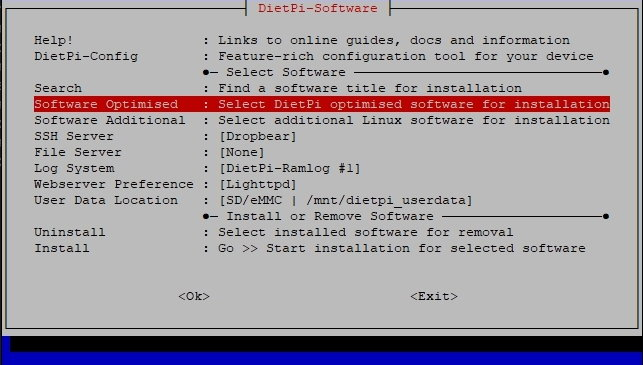
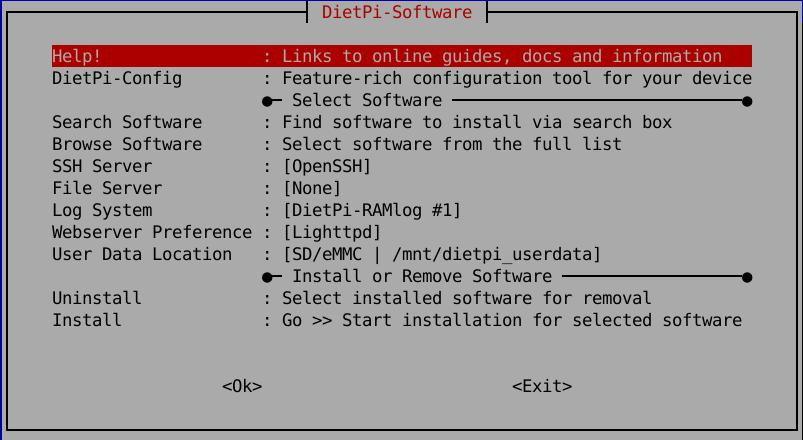
Change description of "Browse Software" resp. "Search Software" in dietpi-software

diff --git a/docs/dietpi_tools.md b/docs/dietpi_tools.md
@@ -24,11 +24,11 @@ It is one of the core tools, enabling you to install or uninstall one or more [*
 
 ### Software overview
 
-=== "Software Optimised"
+=== "Browse Software"
 
-    - Begin by selecting **Software Optimized** in the main menu list and hit ++enter++.
+    - Begin by selecting **Browse Software** in the main menu list and hit ++enter++.
 
-    - Scroll through the list of available software - for more details check [DietPi Optimised Software](../software/).
+    - Scroll through the list of available software - for more details check [DietPi Optimised Software items](../software/).
 
     The list of optimised software is long. You either browse the list or use the option **Search**.
 
@@ -42,18 +42,9 @@ It is one of the core tools, enabling you to install or uninstall one or more [*
 
     ![DietPi-Software Software Optimised menu screenshot](assets/images/dietpi-software-optimised.jpg){: width="643" height="365" loading="lazy"}
 
-=== "Software Additional"
+=== "Search Software"
 
-    This section provides:
-
-    - software packages that are often used and installed via `apt install <package>`, without additional optimisation from DietPi team.
-    - _or_ packages not directly required, but pulled as a dependency, like: build tools, libraries or runtime systems. E.g. packages like *Python3*, *pip*, *tcpdump* or *midnight commander* can be installed using the dialog.
-
-    ![DietPi-Software Software Additional menu screenshot](assets/images/dietpi-software-additional.jpg){: width="640" height="485" loading="lazy"}
-
-=== "Search"
-
-    DietPi supports a large number of software titles. Instead of scrolling through the **Software Optimised** list to find a specific software title, you may use the **Search** option. Type in the software ID or any keyword form its title or description and you'll get a list filtered by matching results.
+    DietPi supports a large number of software titles. Instead of scrolling through the **Browse Software** list to find a specific software title, you may use the **Search Software** option. Type in the software ID or any keyword form its title or description and you'll get a list filtered by matching results.
 
     ![DietPi-Software Search menu screenshot](assets/images/dietpi-software-search.png){: with="752" height="321" loading="lazy"}
 
@@ -139,7 +130,7 @@ It is one of the core tools, enabling you to install or uninstall one or more [*
 
 === "Install"
 
-    Install software item(s) which have been selected via **Optimised Software** or **Additional Software** lists, or via **SSH Server**, **File Server** or **Log System** choices.
+    Install software item(s) which have been selected via **Browse Software** list, via **Search Software**, or via **SSH Server**, **File Server** or **Log System** choices.
 
 === "Uninstall"
 

diff --git a/docs/getting_started.md b/docs/getting_started.md
@@ -2,7 +2,7 @@
 
 ## Overview
 
-Once you did the [DietPi Installation](../install/) you could choose to install one or more [Optimised software](../software/) items or run one of the [DietPi tools](../dietpi_tools/).
+Once you did the [DietPi Installation](../install/) you could choose to install one or more [DietPi optimized software items](../software/) or run one of the [DietPi tools](../dietpi_tools/).
 
 ## Initial start
 
@@ -12,17 +12,17 @@ This will be the first screen displayed.
 
 ## DietPi-Launcher
 
-Once you run `dietpi-launcher` you could see all available DietPi tools. It provides a quick way to run any the DietPi tools: from installing **DietPi Optimised software** to simple configure your device, from enabling services to start to backup your installation and so on.
+Once you run `dietpi-launcher` you could see all available DietPi tools. It provides a quick way to run any of the DietPi tools: Installing **DietPi optimized software items** to simple configure your device, enabling services to start to backup your installation and so on.
 
 ![DietPi-Launcher screenshot](assets/images/dietpi-launcher.jpg){: width="642" height="366" loading="lazy"}
 
 ## DietPi-Software -- Choose the software you need
 
-The base installation of DietPi is minimal **by design**, allowing you to choose what software you want to install and use. If you’re unsure what software to install, checkout [DietPi Optimised Software](../software/) page for more details.  
+The base installation of DietPi is minimal **by design**, allowing you to choose what software you want to install and use. If you’re unsure what software to install, checkout [DietPi optimised software items](../software/) page for more details.  
 
-The list of optimised software includes:
+The list of DietPi optimised software includes:
 
-- desktop environments
+- Desktop environments
 - Remote Desktops
 - Media Systems/Players
 - Torrents/Downloading (Transmission)
@@ -40,7 +40,7 @@ The list of optimised software includes:
 
 To install and configure them use `dietpi-software` tool - [click for more details](../dietpi_tools/#dietpi-software).
 
-![DietPi-Software screenshot](assets/images/dietpi-software.jpg){: width="643" height="365" loading="lazy"}
+![DietPi-Software screenshot](assets/images/dietpi-software.jpg){: width="640" height="351" loading="lazy"}
 
 ## Supported SBC
 

diff --git a/docs/software/remote_desktop.md b/docs/software/remote_desktop.md
@@ -16,22 +16,23 @@ Run a **Desktop environment** on your device and access it accessed remotely via
 - [**Remot3.it - (Weaved) Access your device over the internet**](#remot3it)
 - [**VirtualHere - Share physically attached USB devices from your SBC over the network**](#virtualhere)
 
-??? info "How do I run **DietPi-Software** and install **optimised software**?"
-    To install any of the **DietPi optimised software** listed below run from the command line:
+??? info "How do I run **DietPi-Software** and install **optimised software** items?"
+    To install any of the **DietPi optimised software items** listed below run from the command line:
 
     ```sh
     dietpi-software
     ```
 
-    Choose **Software Optimised** and select one or more items. Finally click on `Install`. DietPi will do all the necessary steps to install and start these software items.
+    Choose **Browse Software** and select one or more items. Finally select `Install`.  
+    DietPi will do all the necessary steps to install and start these software items.
 
-    ![DietPi-Software menu screenshot](../assets/images/dietpi-software.jpg){: width="643" height="365" loading="lazy"}
+    ![DietPi software](../assets/images/dietpi-software.jpg){: width="643" height="365" loading="lazy"}
 
     To see all the DietPi configurations options, review [DietPi Tools](../../dietpi_tools/) section.
 
 !!! info Desktop environment
 
-    From the list of **Optimised Software**, together with any of the Remote Desktop Software choose also one of [_Graphical Desktop environment_](../desktop). DietPi will install both of them, enabling you to use your keyboard and mouse to interact with a graphical desktop environment on your device.
+    From the list of **Browse Software**, together with any of the Remote Desktop Software choose also one of [_Graphical Desktop environment_](../desktop). DietPi will install both of them, enabling you to use your keyboard and mouse to interact with a graphical desktop environment on your device.
 
 [Return to the **Optimised Software list**](../../software/)
 

diff --git a/docs/software.md b/docs/software.md
@@ -2,12 +2,13 @@
 
 ## Overview
 
-**DietPi-Software** is a core DietPi tool, allowing you to install **Ready to run** and **Optimized software** for your device. It automates the installation and configuration process for you and also applies specific optimizations unique to your hardware model. As a result DietPi-Software ensure you get the **maximum performance** from your device.
+**DietPi-Software** is a core DietPi tool, allowing you to install **Ready to run** and **Optimized software items** for your device. It automates the installation and configuration process for you and also applies specific optimizations unique to your hardware model. As a result DietPi-Software ensure you get the **maximum performance** from your device.
 
-??? info "How do I run **DietPi-Software** and install **Optimised software** ?"
-    To install any of the **DietPi Optimised Software** listed below run from the command line `dietpi-launcher` and selected *DietPi-Software* or launch the tool `dietpi-software`.
+??? info "How do I run **DietPi-Software** and install **Optimised software** items?"
+    To install any of the **DietPi optimised software items** listed below run from the command line `dietpi-launcher` and selected *DietPi-Software* or launch the tool `dietpi-software`.
 
-    Choose **Software optimised** and select one or more items. Finally click on `Install`. DietPi will do all the necessary steps to install and start these software items.
+    Choose **Browse Software** and select one or more items. Finally select `Install`.  
+    DietPi will do all the necessary steps to install and start these software items.
 
     ![DietPi Software](assets/images/dietpi-software.jpg)
 

diff --git a/docs/software/log_system.md b/docs/software/log_system.md
@@ -11,16 +11,19 @@ The *Log System* can be changed at any time by running `dietpi-software` and sel
 
 ![DietPi log system selection](../assets/images/dietpi-software-log-system.png){: width="256" height="128" loading="lazy"}
 
-??? info "How do I set the **Log System**?"
-    To select the **Log System** listed below run from the command line:
+??? info "How do I run **DietPi-Software** and install **optimised software** items?"
+    To install any of the **DietPi optimised software items** listed below run from the command line:
 
     ```sh
     dietpi-software
     ```
 
-    Choose **Log System** and select the desired item. Finally click on `Install`. DietPi will do all the necessary steps to change to the desired log system.
+    Choose **Browse Software** and select one or more items. Finally select `Install`.  
+    DietPi will do all the necessary steps to install and start these software items.
 
-    ![DietPi-Software Log System menu screenshot](../assets/images/dietpi-software-log-system-selection.jpg){: width="500" height="336" loading="lazy"}
+    ![DietPi software](../assets/images/dietpi-software.jpg){: width="643" height="365" loading="lazy"}
+
+    To see all the DietPi configurations options, review [DietPi Tools](../../dietpi_tools/) section.
 
 ???+ seealso "Examining the logging information"
     A description of the basic log information display and filter option is given in the [HowTo section of the DietPi documentation](../../usage).

diff --git a/docs/software/media.md b/docs/software/media.md
@@ -32,18 +32,21 @@
 - [**Spotify Connect Web - Web interface, client and player for Spotify Premium**](#spotify-connect-web)
 - [**Jellyfin - Media streaming server including live TV**](#jellyfin)
 
-??? info "How do I run **DietPi-Software** and install **optimised software**?"
-    To install any of the **DietPi optimised software** listed below run from the command line:
+??? info "How do I run **DietPi-Software** and install **optimised software** items?"
+    To install any of the **DietPi optimised software items** listed below run from the command line:
 
     ```sh
     dietpi-software
     ```
 
-    Choose **Software Optimised** and select one or more items. Finally click on `Install`. DietPi will do all the necessary steps to install and start these software items.
+    Choose **Browse Software** and select one or more items. Finally select `Install`.  
+    DietPi will do all the necessary steps to install and start these software items.
 
-    ![DietPi-Software menu screenshot](../assets/images/dietpi-software.jpg){: width="643" height="365" loading="lazy"}
+    ![DietPi software](../assets/images/dietpi-software.jpg){: width="643" height="365" loading="lazy"}
 
     To see all the DietPi configurations options, review [DietPi Tools](../../dietpi_tools/) section.
+
+[Return to the **Optimised Software list**](../../software/)
 
 ## Kodi
 

diff --git a/docs/software/file_servers.md b/docs/software/file_servers.md
@@ -7,18 +7,19 @@
 - [**vsftpd - Feature rich FTP file server**](#vsftpd)
 - [**NFS - Network file system server**](#nfs)
 
-??? info "How do I run **DietPi-Software** and install **optimised software** ?"
-    To install any of the **DietPi optimised software** listed below run from the command line:
+??? info "How do I run **DietPi-Software** and install **optimised software** items?"
+    To install any of the **DietPi optimised software items** listed below run from the command line:
 
-    ```
+    ```sh
     dietpi-software
     ```
 
-    Choose **Software Optimised** and select one or more items. Finally click on `Install`. DietPi will do all the necessary steps to install and start these software items.
+    Choose **Browse Software** and select one or more items. Finally select `Install`.  
+    DietPi will do all the necessary steps to install and start these software items.
 
-    ![DietPi software](../assets/images/dietpi-software.jpg)
+    ![DietPi software](../assets/images/dietpi-software.jpg){: width="643" height="365" loading="lazy"}
 
-    To see all the DietPi configurations options, review [DietPi Tools](../../dietpi_tools) section.
+    To see all the DietPi configurations options, review [DietPi Tools](../../dietpi_tools/) section.
 
 [Return to the **Optimised Software list**](../../software/)
 

diff --git a/docs/software/bittorrent.md b/docs/software/bittorrent.md
@@ -18,18 +18,19 @@
 - [**NZBGet - NZB download manager with web interface**](#nzbget)
 - [**HTPC Manager - combines all your favourite software into one slick interface**](#htpc-manager)
 
-??? info "How do I run **DietPi-Software** and install **optimised software**?"
-    To install any of the **DietPi optimised software** listed below run from the command line:
+??? info "How do I run **DietPi-Software** and install **optimised software** items?"
+    To install any of the **DietPi optimised software items** listed below run from the command line:
 
     ```sh
     dietpi-software
     ```
 
-    Choose **Software Optimised** and select one or more items. Finally click on `Install`. DietPi will do all the necessary steps to install and start these software items.
+    Choose **Browse Software** and select one or more items. Finally select `Install`.  
+    DietPi will do all the necessary steps to install and start these software items.
 
     ![DietPi software](../assets/images/dietpi-software.jpg){: width="643" height="365" loading="lazy"}
 
-    To see all the DietPi configurations options, review [DietPi Tools](../../dietpi_tools) section.
+    To see all the DietPi configurations options, review [DietPi Tools](../../dietpi_tools/) section.
 
 [Return to the **Optimised Software list**](../../software/)
 

diff --git a/docs/software/hardware_projects.md b/docs/software/hardware_projects.md
@@ -15,16 +15,17 @@
 - [**InfluxDB - Database optimized to save time based data as logs or data from a sensor**](#influxdb)
 - [**Grafana - The open platform for beautiful analytics and monitoring**](#grafana)
 
-??? info "How do I run **DietPi-Software** and install **optimised software**?"
-    To install any of the **DietPi optimised software** listed below run from the command line:
+??? info "How do I run **DietPi-Software** and install **optimised software** items?"
+    To install any of the **DietPi optimised software items** listed below run from the command line:
 
     ```sh
     dietpi-software
     ```
 
-    Choose **Software Optimised** and select one or more items. Finally click on `Install`. DietPi will do all the necessary steps to install and start these software items.
+    Choose **Browse Software** and select one or more items. Finally select `Install`.  
+    DietPi will do all the necessary steps to install and start these software items.
 
-    ![DietPi-Software menu screenshot](../assets/images/dietpi-software.jpg){: width="643" height="365" loading="lazy"}
+    ![DietPi software](../assets/images/dietpi-software.jpg){: width="643" height="365" loading="lazy"}
 
     To see all the DietPi configurations options, review [DietPi Tools](../../dietpi_tools/) section.
 

diff --git a/docs/software/programming.md b/docs/software/programming.md
@@ -7,16 +7,17 @@
 - [**Docker Compose - Define and run multi-container Docker applications**](#docker-compose)
 - [**Portainer - Lightweight management UI, managing your Docker host or Swarm cluster**](#portainer)
 
-??? info "How do I run **DietPi-Software** and install **optimised software**?"
-    To install any of the **DietPi optimised software** listed below run from the command line:
+??? info "How do I run **DietPi-Software** and install **optimised software** items?"
+    To install any of the **DietPi optimised software items** listed below run from the command line:
 
     ```sh
     dietpi-software
     ```
 
-    Choose **Software Optimised** and select one or more items. Finally click on `Install`. DietPi will do all the necessary steps to install and start these software items.
+    Choose **Browse Software** and select one or more items. Finally select `Install`.  
+    DietPi will do all the necessary steps to install and start these software items.
 
-    ![DietPi-Software menu](../assets/images/dietpi-software.jpg){: width="643" height="365" loading="lazy"}
+    ![DietPi software](../assets/images/dietpi-software.jpg){: width="643" height="365" loading="lazy"}
 
     To see all the DietPi configurations options, review [DietPi Tools](../../dietpi_tools/) section.
 

diff --git a/docs/software/system_security.md b/docs/software/system_security.md
@@ -5,18 +5,19 @@
 - [**Let’s Encrypt - Enable HTTPS / SSL**](#lets-encrypt)
 - [**Fail2Ban - Protects your system from brute-force attacks**](#fail2ban)
 
-??? info "How do I run **DietPi-Software** and install **optimised software**?"
-    To install any of the **DietPi optimised software** listed below run from the command line:
+??? info "How do I run **DietPi-Software** and install **optimised software** items?"
+    To install any of the **DietPi optimised software items** listed below run from the command line:
 
     ```sh
     dietpi-software
     ```
 
-    Choose **Software Optimised** and select one or more items. Finally click on `Install`. DietPi will do all the necessary steps to install and start these software items.
+    Choose **Browse Software** and select one or more items. Finally select `Install`.  
+    DietPi will do all the necessary steps to install and start these software items.
 
     ![DietPi software](../assets/images/dietpi-software.jpg){: width="643" height="365" loading="lazy"}
 
-    To see all the DietPi configurations options, review [DietPi Tools](../../dietpi_tools) section.
+    To see all the DietPi configurations options, review [DietPi Tools](../../dietpi_tools/) section.
 
 [Return to the **Optimised Software list**](../../software/)
 

diff --git a/docs/software/ssh.md b/docs/software/ssh.md
@@ -5,18 +5,19 @@
 - [**Dropbear - Lightweight SSH Server**](#dropbear)  
 - [**OpenSSH - Feature rich SSH server with SFTP/SCP support**](#openssh)  
 
-??? info "How do I run **DietPi-Software** and install **optimised software**?"
-    To install any of the **DietPi optimised software** listed below run from the command line:
+??? info "How do I run **DietPi-Software** and install **optimised software** items?"
+    To install any of the **DietPi optimised software items** listed below run from the command line:
 
     ```sh
     dietpi-software
     ```
 
-    Choose **Software Optimised** and select one or more items. Finally click on `Install`. DietPi will do all the necessary steps to install and start these software items.
+    Choose **Browse Software** and select one or more items. Finally select `Install`.  
+    DietPi will do all the necessary steps to install and start these software items.
 
     ![DietPi software](../assets/images/dietpi-software.jpg){: width="643" height="365" loading="lazy"}
 
-    To see all the DietPi configurations options, review [DietPi Tools](../../dietpi_tools) section.
+    To see all the DietPi configurations options, review [DietPi Tools](../../dietpi_tools/) section.
 
 [Return to the **Optimised Software list**](../../software/)
 
